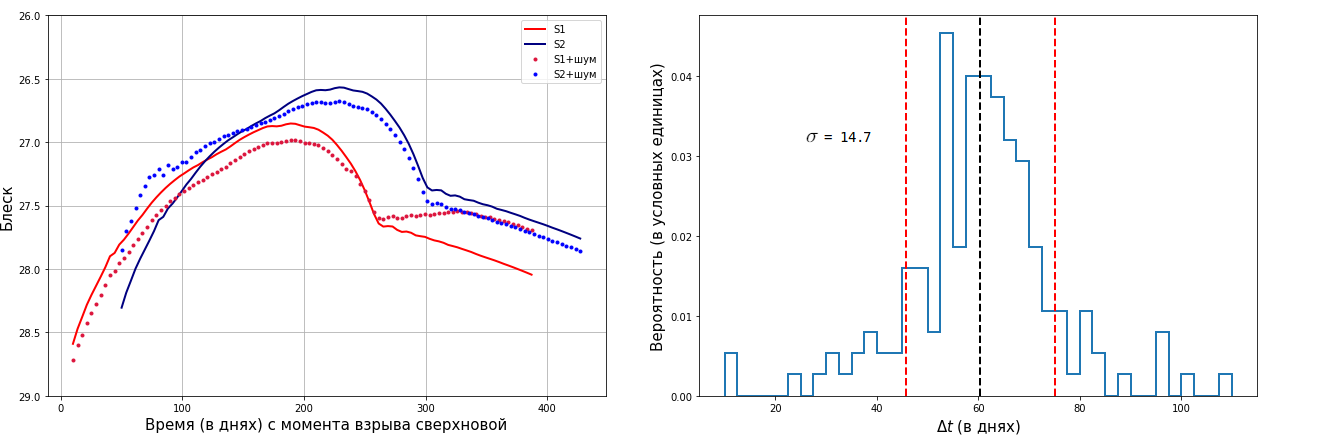
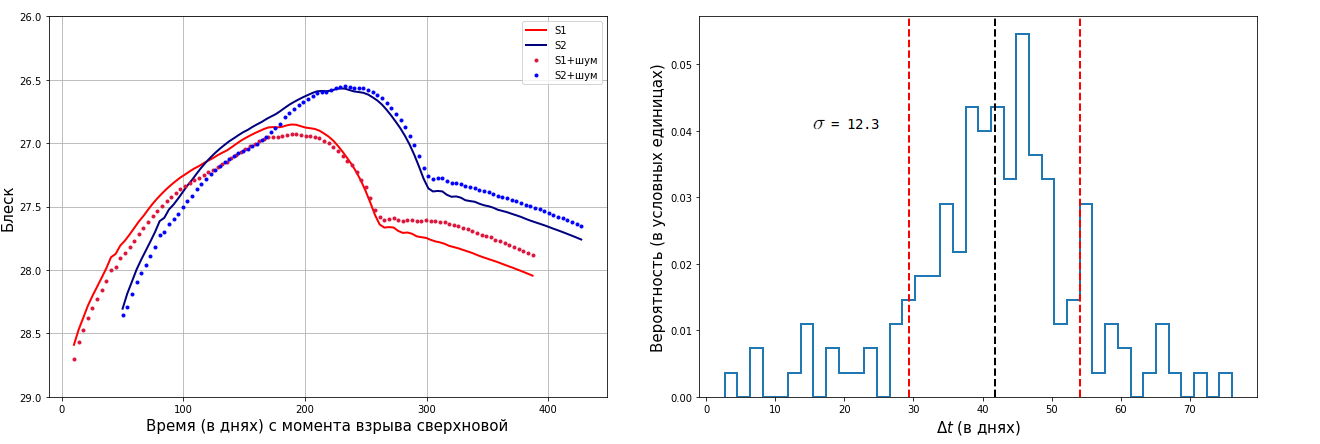
it's done!

diff --git a/intro/theoretical_background.tex b/intro/theoretical_background.tex
@@ -2,7 +2,7 @@
 
 \subsection{Измерение расстояний}
 
-Различные определения расстояния, используемые в космологии, приведены, например, в \cite{distance_measures}. Здесь и далее для описания расстояний между объектами в системе источник -- линза -- наблюдатель используется понятие \textbf{расстояния углового диаметра} (angular diameter distance). Оно определяется по следующей формуле (см, напр., уравн. №№14,15 в \cite{distance_measures}):
+Различные определения расстояния, используемые в космологии, приведены, например, в \cite{distance_measures}. Здесь и далее для описания расстояний между объектами в системе источник -- линза -- наблюдатель используется понятие \textit{расстояния углового диаметра} (angular diameter distance). Оно определяется следующим образом (см., напр., уравн. №14,15 в \cite{distance_measures}):
 
 \begin{equation}\label{ang_dia_dist}
 D_{A}\left(z_{1}, z_{2}\right)=\frac{c}{1+z_{2}} \int_{z_{1}}^{z_{2}} \frac{d z}{H_{0} \sqrt{\Omega_{m}\left(1+z^{3}\right)+\Omega_{\Lambda}}},
@@ -11,12 +11,12 @@ D_{A}\left(z_{1}, z_{2}\right)=\frac{c}{1+z_{2}} \int_{z_{1}}^{z_{2}} \frac{d z}
 
 \subsection{Гравитационно-линзированная система}
 
-При помощи общей теории относительности нетрудно показать (см., напр., \cite{gl_all}), что в гравитационном поле массивного тела \textit{(линзы)} с ньютоновским потенциалом $\Phi$ угол отклонения светового луча, испущенного \textit{источником} и пришедшего к \textit{наблюдателю}, равен
+В рамках общей теории относительности можно показать (см., напр., \cite{gl_all}), что в гравитационном поле массивного тела \textit{(линзы)} с ньютоновским потенциалом $\Phi$ угол отклонения светового луча, испущенного \textit{источником} и пришедшего к \textit{наблюдателю}, равен
 
 \begin{equation}
 \hat{\alpha}=\frac{2}{c^{2}} \int_{-\infty}^{+\infty} \vec{\nabla}_{\perp} \Phi \ \mathrm{d} z,
 \end{equation}
-где $z$ - координата вдоль невозмущённой траектории распространения света. При этом предполагается, что $\Phi/c^2 \ll 1$, что выполняется практически всегда: например, для скопления галактик  $|\Phi|/c^2 \sim 10^{-4} \ll 1$. Это же условие обеспечивает малость углов: при сильном линзировании углы отклонения света порядка угловых секунд. Из того, что $\Phi$ не зависит от массы тела, попавшего в гравитационное поле, следует, что все фотоны отклоняются на один и тот же угол. В этом смысле сильное гравитационное линзирование \textit{ахроматично}, то есть не зависит от длины волны. 
+где $z$ - координата вдоль невозмущённой траектории распространения света. При этом предполагается, что $\Phi/c^2 \ll 1$, что выполняется практически всегда: например, для самых массивно гравитационно связанных объектов во Вселенной -- скоплений галактик --  $|\Phi|/c^2 \sim 10^{-4} \ll 1$. Это же условие обеспечивает малость углов: при сильном линзировании углы отклонения света порядка угловых секунд. Из того, что $\Phi$ не зависит от массы тела, попавшего в гравитационное поле, следует, что все фотоны отклоняются на один и тот же угол. В этом смысле сильное гравитационное линзирование \textit{ахроматично}, то есть не зависит от длины волны. 
 %Для точечной линзы $\Phi=-\frac{G M}{r}$, где $M$ - её масса, а значит, что углы отклонения массивом таких линз могут быть сложены по принципу суперпозиции. 
 
 В реалистичных моделях линз, в которых масса, вызывающая линзирование, распределена трёхмерным образом, используется \textit{приближение плоских линз}. Это всегда оправдано: характерные размеры самого большого объекта, который может быть линзой, - скопления галактик - порядка 1 МПк, в то время как типичное расстояние между объектами системы порядка 100-1000 МПк.
@@ -27,7 +27,6 @@ D_{A}\left(z_{1}, z_{2}\right)=\frac{c}{1+z_{2}} \int_{z_{1}}^{z_{2}} \frac{d z}
 	\includegraphics[scale=1.0]{pics/gravlenssyst.png}
 	\caption{Типичная гравитационно-линзированная система (\cite{gravlensbook}). Здесь $\beta$ и $\theta$ - углы между оптической осью (пунктирная линия) и источником и его изображением соответственно, $\hat{\alpha}$ - угол отклонения светового луча, $\eta$ и $\xi$ - расстояния от оптической оси до источника и его изображения соответственно,  $D_d$ - расстояние между наблюдателем и плоскостью линзы, $D_{ds}$ - между плоскостями линзы и источника, $D_s$ - между наблюдателем и источником.\label{fig:gravlensfig} }
    \end{figure} 
-
 Пусть масса линзы распределена в пространстве по закону $\rho(\overline \xi, z)$, где $\overline \xi$ - двумерный вектор в плоскости линзы, $z$ - координата вдоль оптической оси. \textit{Поверхностная плотность} линзы задаётся следующим соотношением:
 
 \begin{equation}\label{sigmasurf}
@@ -64,12 +63,12 @@ D_{A}\left(z_{1}, z_{2}\right)=\frac{c}{1+z_{2}} \int_{z_{1}}^{z_{2}} \frac{d z}
 \mu=\frac{1}{\operatorname{det} \mathcal{A}}
 \end{equation}
 
-Возможно существование некоторого множества точек, для которых выполняется соотношение $\operatorname{det} \mathcal{A}=0$, в которых усиление бесконечно (в действительности это формальность, т.к. при работе с реальными источниками необходимо учитывать их неточечность).  Кривая, образуемая этими точками, называется каустикой, а её образ в плоскости линзы – критической кривой. На Рисунке 2 видно, как ведёт себя изображение неточечного источника при пересечении им складки (fold) или излома (cusp) каустики.
+Возможно существование некоторого множества точек, для которых выполняется соотношение $\operatorname{det} \mathcal{A}=0$, в которых усиление формально бесконечно. Кривая, образуемая этими точками, называется каустикой, а её образ в плоскости линзы – критической кривой. На Рисунке \ref{fig:caustics} видно, как ведёт себя изображение компактного источника при пересечении им складки \textit{(fold)} или излома \textit{(cusp)} каустики.
  
 \begin{figure}[H]
     \centering
 	\includegraphics[scale=0.8]{pics/caust_intro.png}
-	\caption{Поведение изображения источника при пересечении им излома (левая панель) или складки (правая панель) каустики  (\cite{narbart}). Также для иллюстрации изменения масштабов изображения нарисованы критические кривые в плоскости линзы}
+	\caption{Поведение изображения компактного источника при пересечении им излома (левая панель) или складки (правая панель) каустики  (\cite{narbart}). Также для иллюстрации изменения масштабов изображения нарисованы критические кривые в плоскости линзы. \label{fig:caustics}}
 \end{figure}
 
 \subsection{Появление нескольких изображений}
@@ -81,7 +80,7 @@ D_{A}\left(z_{1}, z_{2}\right)=\frac{c}{1+z_{2}} \int_{z_{1}}^{z_{2}} \frac{d z}
 \end{equation}
 Здесь первое слагаемое означает геометрическую задержку (удлиняется траектория распространения света), второе - гравитационную (в соответствии с ОТО время около гравитирующих тел идет “медленнее”); $\boldsymbol{\theta}$ и $\boldsymbol{\beta}$ -- положения (в угловых единицах) соответственно изображения и источника (см. Рис.\ref{fig:gravlensfig}), $\Psi(\boldsymbol{\theta})$ - линзирующий гравитационный потенциал. В соответствии с принципом Ферма изображения формируются там, где $\nabla \tau (\boldsymbol{\theta}) = 0$. Следовательно, возможно появление нескольких изображений  одного и того же источника (то есть возможно несколько значений $\boldsymbol{\theta}$ для одного положения источника; более подробное описание этого присутствует в \cite{gravlensbook}, \cite{gl_all}).
 
-Так как оба слагаемых в формуле \eqref{tau} пропорциональны $H_0^{-1}$, то, измеряя временную задержку между изображениями одного и того же источника, можно получить значение постоянной Хаббла $H_0$. Идея использования именно линзированные сверхновые для оценки постоянной Хаббла была впервые предложена Сьюром Рефсдалом в 1964 году (\cite{refsdal1964}).
+Так как оба слагаемых в формуле \eqref{tau} пропорциональны $H_0^{-1}$, то, измеряя временную задержку между изображениями одного и того же источника, можно получить значение постоянной Хаббла. Идея использования именно линзированных сверхновых для оценки $H_0$ была впервые предложена Сьюром Рефсдалом в 1964 году (\cite{refsdal1964}).
 
 \section{Подходящие источники: квазары и сверхновые}
 

diff --git a/impact/results.tex b/impact/results.tex
@@ -1,42 +1,41 @@
-Специфика эксперимента такова, что при заданном сдвиге по звёздной величине (или, что тоже самое, при заданном отношении усилений изображений) неопределённость во временной задержке, вызванная микролинзированием, не зависит от $\Delta t_{\textrm{ист.}}$. В действительности, в реально наблюдаемых изображениях гравитационно линзированных объектов нельзя точно указать отношение усилений, что нельзя не учитывать при более точных исследованиях. Для иллюстрации выбраны следующие значения: $$\Delta t_{\textrm{ист.}}=40, \ \Delta m = -0.28.$$
-Для контроля точности временных интервалов между точками вводится сетка с $n=100$ делениями, так что частота отсчёта (расстояние вдоль горизонтальной оси между точками) составляет $\frac{400}{n}=4$ дня. (ТУТ). Модельная кривая блеска линейно интерполируется по этим точкам.
-Сперва рассмотрим идеализированный случай, в котором кривая блеска в обоих изображениях "снимается", начиная с момента расширения сверхновой (Рис. \ref{fig:proba}a). В таком случае дисперсия очень маленькая: $\sigma_{\Delta t}=0.24$ дня. Это значение можно трактовать как нижнюю границу точности измерения временных задержек. Столь высокая точность объясняется следующими факторами: 
+При заданном сдвиге по звёздной величине (или, что тоже самое, при заданном отношении усилений изображений) неопределённость во временной задержке, вызванная микролинзированием, не зависит от $\Delta t_{\textrm{ист.}}$. Отметим, что нормировочная постоянная $k$ в \eqref{chi2} по своему смыслу и есть заданная разница в блеске изображений.
+%В действительности, в реально наблюдаемых изображениях гравитационно линзированных объектов нельзя точно указать отношение усилений, что нельзя не учитывать при более точных исследованиях. 
+Для иллюстрации выбраны следующие значения временной задержки и разницы в звёздной величине: $$\Delta t_{\textrm{ист.}}=40, \ \Delta m = -0.28.$$
+Для временных интервалов вводится равномерная сетка: частота отсчёта \textit{(cadence)} составляет $4$ дня. Модельная кривая блеска линейно интерполируется по этим точкам.
+Сперва рассмотрим идеализированный случай, в котором наблюдение кривой блеска в обоих изображениях начинается с момента расширения сверхновой (Рис. \ref{fig:proba}a). В таком случае дисперсия очень маленькая: $\sigma_{\Delta t}=0.24$ дня. Это значение можно трактовать как нижнюю границу точности измерения временных задержек. Столь высокая точность объясняется следующими факторами: 
 
 \begin{itemize}
-    \item Высокая точность отсчёта,
-    \item Постоянство погрешности измерения в формуле \eqref{chi2},
-    \item Наличие характерной почти вертикальной части графика, обусловленной быстрым увеличением яркости сверхновой в первые дни после её взрыва.
+    \item наличие характерной почти вертикальной части кривой блеска, обусловленной быстрым увеличением яркости сверхновой в первые дни после её взрыва,
+    \item достаточно высокая частота отсчёта,
+    \item погрешность измерения в формуле \eqref{chi2} относительно маленькая и постоянная.
 \end{itemize}
+Пусть теперь вертикальная часть охватывает меньший диапазон изменения блеска. В этом случае дисперсия резко возрастает и по порядку величины составляет несколько дней. ($\sigma_{\Delta t}=5.1$ дней, Рис. \ref{fig:proba}б). Если же ещё сильнее сдвинуть момент начала снятия кривой блеска, то дисперсия достигнет весьма больших значений ($\sigma_{\Delta t}=12.3$ дней, Рис. \ref{fig:proba}в). 
 
-Пусть теперь вертикальная часть охватывает меньший диапазон изменения блеска. В этом случае дисперсия резко возрастает и по порядку величины составляет несколько дней. ($\sigma_{\Delta t}=5.1$ дней, Рис. \ref{fig:proba}б). Если же ещё сильнее сдвинуть момент начала снятия кривой блеска, то дисперсия достигнет весьма больших значений ($\sigma_{\Delta t}=14.7$ дней, Рис. \ref{fig:proba}в, $\Delta t_{\textrm{ист.}}=60$).
-
-Теперь смоделируем ситуацию, когда сверхновая детектируется после достижения пика своего блеска. Для реальных наблюдений сверхновых это наиболее реалистичная ситуация. В этом случае стандартное отклонение снова составляет несколько дней по порядку величины ($\sigma_{\Delta t}=2.7$ дней, Рис. \ref{fig:proba}г). 
-
-Несмотря на широкий разброс в значениях, данные согласуются с работой \cite{doblerkeeton2006} -- в ней также показано, что временная задержка для измерений, в которых сверхновая детектируется после пика своей кривой блеска, имеет меньшую дисперсию, чем временная задержка для кривой блеска с характерным пиком. (ПОЧЕМУ)
-
-(для первых трёх гистограмм) Такой рост в дисперсии $\Delta t$ объясняется тем, что флуктуации от микролинзирования наиболее сильно проявляются тогда, когда они совпадают по порядку величины с характерными изменениями истинной кривой блеска. 
 
 \begin{figure}[H]
     \centering
 	\begin{minipage}[h]{1.0\linewidth}
     \centering    
-    	\includegraphics[scale=0.40]{pics/fig1.png} \\ \centering (а)  \\ 
+    	\includegraphics[scale=0.43]{pics/fig1.png} \\ \centering (а)  \\ 
 	\end{minipage}
 	\vfill
 	\begin{minipage}[h]{1.0\linewidth}
 	\centering
-    	\includegraphics[scale=0.40]{pics/fig2.png} \\ \centering (б) \\
+    	\includegraphics[scale=0.43]{pics/fig2.png} \\ \centering (б) \\
 	\end{minipage}
 	\vfill
 	\begin{minipage}[h]{1.0\linewidth}
     \centering	
-    	\includegraphics[scale=0.40]{pics/fig3.png} \\ \centering (в) \\
+    	\includegraphics[scale=0.43]{pics/fig3.png} \\ \centering (в) \\
 	\end{minipage}
 	\vfill
 	\begin{minipage}[h]{1.0\linewidth}
     \centering	
-    	\includegraphics[scale=0.40]{pics/fig4.png} \\ \centering (г) \\
+    	\includegraphics[scale=0.43]{pics/fig4.png} \\ \centering (г) \\
 	\end{minipage}
 	
-	\caption{\textit{Слева}: кривые блеска в изображениях S1 и S2 SN Refsdal. Сплошной линией обозначены невозмущенные кривые блеска, точками -- одна из реализаций кривых блеска с шумами от микролинзирования. \textit{Справа}: гистограммы временных задержек для 150 измерений $\Delta t$. Чёрной пунктирной линией обозначено среднее по всем измерениям, красными пунктирными линиями - среднее плюс-минус одно стандартное отклонение. \label{fig:proba}} 
+	\caption{\textit{Слева}: кривые блеска в изображениях S1 и S2 SN Refsdal. Сплошной линией обозначены невозмущенные кривые блеска, точками -- одна из реализаций кривых блеска с шумами от микролинзирования, вносящими заметный вклад. \textit{Справа}: гистограммы временных задержек для 150 измерений $\Delta t$. Чёрной пунктирной линией обозначено среднее по всем измерениям, красными пунктирными линиями - среднее плюс-минус одно стандартное отклонение. \label{fig:proba}} 
 \end{figure}
+Теперь смоделируем ситуацию, когда сверхновая детектируется после достижения пика своего блеска. Для настоящих наблюдений сверхновых это наиболее реалистичная ситуация. В этом случае стандартное отклонение снова составляет несколько дней по порядку величины ($\sigma_{\Delta t}=2.7$ дней, Рис. \ref{fig:proba}г).
+
+Несмотря на широкий разброс в значениях, данные согласуются с работой \cite{doblerkeeton2006} -- в ней также показано,  что флуктуации от микролинзирования наиболее сильно проявляются тогда, когда они совпадают по порядку величины с характерными изменениями истинной кривой блеска. Полученные результаты, однако, расходятся с выводами работы \cite{pierelrodney2019}, в которых утверждается, что для наблюдений кривой блеска сверхновой после её пика дисперсия временной задержки будет больше, чем для наблюдений с характерным пиком. Это расхождение, вероятнее всего, объясняется заданным и постоянным значением $\Delta m$. Дальнейшие исследования в этой области предполагают уточнение описанной модели.

diff --git a/impact/timedelays.tex b/impact/timedelays.tex
@@ -1,19 +1,17 @@
-Для каждого изображения вклад микролинзирования уникален и не зависит от других изображений, что вносит некоторую неопределенность в определение временных задержек между изображениями. Для количественных оценок точности определения $\Delta t$ между двумя кривыми блеска с учетом микролинзирования используется подход, детально описанный в работе \cite{doblerkeeton2006} -- пионерской работе по этому направлению. За основу была взята одна из кривых блеска SN Refsdal, рассчитанных в гидродинамической модели в различных частотных фильтрах для 400 дней с момента её взрыва (Бакланов и др., в подготовке). Она изображена на Рисунке \ref{fig:lightcurves}. 
+Для каждого изображения вклад микролинзирования уникален и не зависит от других изображений, что вносит некоторую неопределенность в определение временных задержек между изображениями. Для количественных оценок точности определения $\Delta t$ между двумя кривыми блеска с учетом микролинзирования используется подход, детально описанный в работе \cite{doblerkeeton2006}. За основу была взята одна из кривых блеска SN Refsdal, рассчитанных в гидродинамической модели в различных частотных фильтрах для 400 дней с момента её взрыва (Бакланов и др., в подготовке). Она изображена на Рисунке \ref{fig:lightcurves}. 
 
 \begin{figure}[H]
     \centering
-	\includegraphics[scale=0.68]{pics/lightcurves.png}
+	\includegraphics[scale=0.60]{pics/lightcurves.png}
 	\caption{Кривые блеска SN Refsdal в различных фильтрах, полученные в гидродинамической модели (Бакланов и др., в подготовке). \label{fig:lightcurves}} 
 \end{figure}
 
-Для простоты анализа рассматривается кривая блеска только в одном фильтре - F160W. Для иллюстрации влияния микролинзирования используются карты для областей изображений S1 и S2 (см. Рис. \ref{fig:s1s4}). SN Refsdal моделируется кругом с постоянной поверхностной яркостью, случайно расположенным на карте, расширяющимся со скоростью 5000 км/с. Выбор такого значения скорости в некоторой степени произволен (для иллюстрации), но по порядку величины соответствует действительному, оцениваемому как $v \sim {R_{SN}^{max}}/{t_{\textrm{расширения}}} \sim {2 \cdot 10^{15} \textrm{см} }/{55 \textrm{ суток}}$.
-
-Предполагается, что оригинальная кривая блеска наблюдается в изображении S1. Для имитации изображения S2 имеющаяся кривая блеска дублируется и сдвигается по времени (далее эта разница обозначается как истинная временная задержка $\Delta t_{\textrm{ист.}}$) и звёздной величине относительно оригинальной. После этого к каждой из кривых блеска добавляются уникальные “шумы”, вызванные микролинзированием, полученные при помощи программного пакета {\tt{SNTD}} на соответствующих картах. Для “зашумленных” кривых блеска временная задержка между изображениями определяется путем минимизации следующего функционала (аналогично работе \cite{doblerkeeton2006}:
+Для простоты анализа рассматривается кривая блеска только в одном фильтре -- F160W. Для иллюстрации влияния микролинзирования используются карты для областей изображений S1 и S2 (см. Рис. \ref{fig:s1s4}). SN Refsdal моделируется кругом с постоянной поверхностной яркостью, случайно расположенным на карте, расширяющимся с постоянной скоростью 5000 км/с. Выбор такого значения скорости в некоторой степени произволен для лучшей иллюстрации. Предполагается, что выбранная выше кривая блеска наблюдается в изображении S1. Для имитации изображения S2 имеющаяся кривая блеска дублируется и сдвигается по времени (далее эта разница обозначается как истинная временная задержка $\Delta t_{\textrm{ист.}}$) и звёздной величине. После этого к каждой из кривых блеска добавляются “шумы”, вызванные микролинзированием, полученные при помощи программного пакета {\tt{SNTD}} на соответствующих изображению картах. Для “зашумленных” кривых блеска временная задержка между изображениями определяется путем минимизации следующего функционала (аналогично работе \cite{doblerkeeton2006}):
 
 \begin{equation}\label{chi2}
-\chi^{2}(\Delta t)=\frac{1}{N} \sum_{i=1}^{N} \frac{1}{\sigma_{i}^{2}}\left[D^{+}\left(t_{i}\right)-D^{-}\left(t_{i}-\Delta t\right)-k\right]^{2}
+\chi^{2}(\Delta t)=\frac{1}{N} \sum_{i=1}^{N} \frac{1}{\sigma_{i}^{2}}\left[D^{+}\left(t_{i}\right)-D^{-}\left(t_{i}-\Delta t\right)-k\right]^{2},
 \end{equation}
-где $D^+$ и $D^-$ - значения кривых блеска, выраженные в звёздных величинах, $\sigma_i$ - фотометрическая погрешность с нормальным распределением (она предполагается постоянной во времени), $k$ - нормировочная постоянная, связанная с различным макроусилением псевдо-изображений. Далее эта операция многократно повторяется, после чего по полученным значениям разброса временных задержек находится стандарное отклонение соответствующего распределения $\Delta t$ по формуле
+где $D^+$ и $D^-$ -- значения кривых блеска, выраженные в звёздных величинах, $\sigma_i = 0.05$ звёздных величин -- фотометрическая погрешность (она предполагается постоянной во времени), $k$ -- нормировочная постоянная, связанная с различным макроусилением "изображений". Далее эта процедура многократно повторяется, после чего по полученным значениям разброса временных задержек находится стандарное отклонение соответствующего распределения $\Delta t$ по формуле
 \begin{equation}\label{sigmadeltat}
 \sigma_{\Delta t}=\sqrt{\frac{1}{N} \sum_{i=1}^{N}\left((\Delta t)_{i}-\overline{\Delta t}\right)^{2}},
 \end{equation}

diff --git a/microlensing/impact_of_size.tex b/microlensing/impact_of_size.tex
@@ -1,17 +1,18 @@
 Как известно, микролинзирование при больших размерах источника вносит несущественный вклад в блеск источника (\cite{schneider1992}). Для того, чтобы оценить размер источника, начиная с которого вкладом микролинзирования можно пренебречь, мы оценили величину стандартного отклонения микро-усилений в звездных величинах $\delta m_{obs}$ как функцию размера источника. 
-Для этой цели было сгенерировано 10 различных карт микрокаустик, каждая со следующими параметрами: $\sigma_*=0.4, \sigma_c = 0$, размер - $ 150 \times 150 $ радиусов Эйнштейна, разрешение - $1000 \ times 1000$ пикселей. Источник моделировался кругом с постоянной поверхностной яркостью. Для различных значений радиусов источника производилась операция свёртки \textit{(convolution)} с каждой из построенных карт, в результате чего на выходе получалась новая карта с учётом неточечности источника. Далее, для каждого значения радиуса источника вычислялось стандартное отклонение  $\delta m_{o b s}$ по следующей формуле: 
+Для этой цели было сгенерировано 10 различных карт микрокаустик, каждая со следующими параметрами: $\kappa_*=0.4, \kappa_c = 0$, размер - $ 150 \times 150 $ радиусов Эйнштейна, разрешение - $1000 \times 1000$ пикселей. Источник моделировался кругом с постоянной поверхностной яркостью. Для различных значений радиусов источника производилась операция свёртки \textit{(convolution)} с каждой из построенных карт, в результате чего на выходе получалась новая карта с учётом неточечности источника. Далее, для каждого значения радиуса источника вычислялось стандартное отклонение  $\delta m_{o b s}$ по следующей формуле: 
 \begin{equation}
 \delta m_{o b s}=\sqrt{\frac{1}{N} \sum_{i=1}^{N}\left(x_{i}-\overline{x}\right)^{2}},
 \end{equation}
-где N - количество элементов в выборке, полученной объединением всех карт, $x_i$ - значения усилений, $\overline x$- среднее значение усиления по выборке. Полученная зависимость приведена на Рисунке \ref{fig:refstab}. Пунктирной линией показана теоретическая оценка стандартного отклонения микро-усилений для больших источников (угловой размер которых превышает 5 радиусов Эйнштейна) из работы (\cite{refsdalstabell1991}):
-\begin{equation}
-\delta m_{o b s} \approx \frac{2.17 \sqrt{|\sigma|}}{\theta s}
-\end{equation}
-где $\sigma$ - плотность звёзд, $\theta_s$ - размер источника в единицах радиуса Эйнштейна для характерной массы звезды (здесь -- для $1 M_{\odot} $). Формула предполагается справедливой при $\gamma=0, \sigma < 1$. 
+где N - количество элементов в выборке, полученной объединением всех карт, $x_i$ - значения усилений, $\overline x$- среднее значение усиления по выборке. Полученная зависимость приведена на Рисунке \ref{fig:refstab}. 
 
 \begin{figure}[H]
     \centering
 	\includegraphics[scale=0.69]{pics/size_np_std.png}
-	\caption{ Рис.5 Зависимость стандартного отклонения $\Delta m_{obs}$ от среднего значения усиления. Пунктирной линией показана теоретическая оценка $\delta m (\theta_s)$ для источников с $\theta_s > 5$ (\cite{refsdalstabell1991}). Плотность звёзд: $\sigma_*=0.4$. Плотность тёмной материи и внешний сдвиг: $\sigma_c=0$. \label{fig:refstab} } 
+	\caption{Зависимость стандартного отклонения $\Delta m_{obs}$ от среднего значения усиления. Пунктирной линией показана теоретическая оценка $\delta m (\theta_s)$ для источников с $\theta_s > 5$ (\cite{refsdalstabell1991}). Плотность звёзд: $\kappa_*=0.4$. Плотность тёмной материи и внешний сдвиг: $\kappa_c=\gamma=0$. \label{fig:refstab} } 
 \end{figure}
+Пунктирной линией показана теоретическая оценка стандартного отклонения микро-усилений для больших источников (угловой размер которых превышает 5 радиусов Эйнштейна) из работы (\cite{refsdalstabell1991}):
+\begin{equation}
+\delta m_{o b s} \approx \frac{2.17 \sqrt{|\kappa_*|}}{\theta s}
+\end{equation}
+где $\kappa_*$ - безразмерная поверхностная плотность звёзд, $\theta_s$ - размер источника в единицах радиуса Эйнштейна для характерной массы звезды (здесь -- для $1 M_{\odot} $). Формула предполагается справедливой при $\gamma=0, \kappa_* < 1$. 
 Видно, что при увеличении размера источника на порядок $\delta m_{obs}$ уменьшается примерно так же на порядок, из чего можно сделать вывод, что для больших источников микролинзирование несущественно.

diff --git a/impact/rough_estimates.tex b/impact/rough_estimates.tex
@@ -34,7 +34,6 @@
 
 
 Поскольку значение $\theta_{\text {Ein}}$ неизвестно, воспользуемся следующим значением дисперсии скоростей звёзд для галактики-линзы: $\sigma = 232.08$ (\cite{kawamataoguri}). Ожидается, что оно лежит достаточно близко к $\sigma_{prox}$. Подставляя указанное  значение $\sigma$ в формулы \eqref{sigsig} и \eqref{radeff}, получаем: $$\Sigma_e = 1.8 \cdot 10^9 \ M_{\odot}/pc^2,$$ $$r_e=4.93 \ kpc$$
-
 В работе \cite{kawamataoguri} приведены положения (в системе небесных координат) изображений S1-S4 (Таблица А4) и центра линзирующей галактики (раздел 3.4.4), они указаны в таблице \ref{tab:coord}.
 
 \begin{table}[h!]
@@ -52,15 +51,14 @@
     \end{tabular}
 \end{table}
 \\
-Поверхностная плотность звёзд $\Sigma_*$ в областях, соответствующим изображениям S1-S4, рассчитывается на основе формулы де Вокулёра (\cite{schechter2014}, формула (11)):
+Поверхностная плотность звёзд $\Sigma_*$ в областях, соответствующим изображениям S1-S4, рассчитывается на основе формулы де Вокулёра (\cite{vaucouleurs}), представленной в виде (\cite{schechter2014}, формула (11)):
 
 \begin{equation}\label{vaucouleurs}
 \Sigma_*\left(u_{i}, v_{i}\right)=\mathcal{F} \frac{\Sigma_{e}}{3.607} \exp \left[-\left(\frac{w_{i}}{r_{e}}\right)^{\frac{1}{4}}+1\right], 
 \end{equation}
+где $u_{i}, v_{i}$ - координаты $i$-ого изображения по отношению к центру линзирующей галактики, $\Sigma_e$ - средняя (эффективная) поверхностная плотность звёзд, заключённых внутри эффективного радиуса $r_e$, безразмерный множитель $\mathcal{F}=1.23$ подобран методом максимального правдоподобия по наблюдаемым световым потокам от квазаров. При этом, согласно формуле \eqref{sigmacrit} для плоскости, в которой находятся изображения SN Refsdal  $\Sigma_{crit} = 2371.9 \ M_{\odot}/pc^2 $. Располагая этим значением, можно также найти $\kappa_*$ и $\kappa_c$ для областей с изображениями S1-S4 ($\kappa_*=\Sigma_* /\Sigma_{crit}, \ \kappa_c = \kappa-\kappa_* $). Полученные результаты представлены в таблице \ref{tab:params}.
 
-где $u_{i}, v_{i}$ - координаты $i$-ого изображения по отношению к центру линзирующей галактики, $\Sigma_e$ - средняя (эффективная) поверхностная плотность звёзд, заключённых внутри эффективного радиуса $r_e$, безразмерный множитель $\mathcal{F}=1.23$ подобран методом максимального правдоподобия (для наблюдаемых световых потоков от квазаров -- как нормально написать?). При этом, согласно формуле \eqref{sigmacrit} для плоскости, в которой находятся изображения SN Refsdal  $\Sigma_{crit} = 2371.9 \ M_{\odot}/pc^2 $. Располагая этим значением, можно также найти $\kappa_*$ и $\kappa_c$ для областей с изображениями S1-S4 ($\kappa_*=\Sigma_* /\Sigma_{crit}, \ \kappa_c = \kappa-\kappa_* $). Полученные результаты представлены в таблице \ref{tab:params}.
-
-\begin{table}[h!]
+\begin{table}[H]
   \caption{Оценки параметров для изображений SN Refsdal}
    \label{tab:params}
   \centering
@@ -70,16 +68,14 @@
     $\Sigma_*, M_{\odot}/pc^2$ & 491.2 & 541.3 & 509.8 & 580.1\\ \hline
     $\kappa_*$ & 0.207 &  0.228 & 0.215 & 0.245 \\ \hline
     $\kappa_c$ & 0.521 & 0.496 & 0.455 & 0.499 \\ \hline
-    $\kappa_*/\kappa$ & 0.285 & 0.315 & 0.321 & 0.329 \\ \hline
+   % $\kappa_*/\kappa$ & 0.285 & 0.315 & 0.321 & 0.329 \\ \hline
     \end{tabular}
 \end{table}
 \\
-Также видно, что вклад звёзд в общую конвергенцию порядка 20-30\verb|%|. Тут обосновать для чего это.
-
 Реализации карт с соответствующими параметрами приведены на Рисунке \ref{fig:s1s4}.
 
 \begin{figure}[H]
     \centering
 	\includegraphics[scale=0.6]{pics/s1s4.png}
-	\caption{Реализации карт для областей изображений S1-S4 SN Refsdal, выполненные при помощи программы {\tt{microlens}}. Размер каждой карты -- $10 \times 10 R_{Ein} $, разрешение -- $1000 \times 1000 $ пикселей. Цветовая шкала в единицах звёздных величин показывает усиление (отрицательные значения) или ослабление (положительные значения) яркости источника вследствие только микролинзирования. \label{fig:s1s4}} 
+	\caption{Реализации карт для областей изображений S1-S4 SN Refsdal, выполненные при помощи программы {\tt{microlens}}. Размер каждой карты -- $10 \times 10 \ R_{Ein} $, разрешение -- $1000 \times 1000 $ пикселей. Цветовая шкала в единицах звёздных величин показывает усиление (отрицательные значения) или ослабление (положительные значения) яркости источника вследствие только микролинзирования. \label{fig:s1s4}} 
 \end{figure}

diff --git a/microlensing/micro_histo.tex b/microlensing/micro_histo.tex
@@ -1,9 +1,9 @@
-Чтобы наглядно показать вклад микролинзирования в изменение звёздной величины \textbf{точечного источника}, используется подход, аналогичный изложенному в работе \cite{shwamb2002}. Для изображённых на Рисунке \ref{fig:histograms} карт микролинзирования (слева) были построены гистограммы (справа), по сути, являющиеся плотностью вероятности микролинзирования и характеризующие усиление или ослабление видимой звёздной величины источника. Для всех трех проиллюстрированных случаев полная поверхностная плотность галактики-линзы остается постоянной, меняется лишь вклад звезд в полную массу системы.
+Чтобы наглядно показать вклад микролинзирования в изменение звёздной величины \textbf{точечного источника}, используется подход, аналогичный изложенному в работе \cite{shwamb2002}. Для изображённых на Рисунке \ref{fig:histograms} карт микролинзирования были построены гистограммы, по сути, являющиеся плотностью вероятности микролинзирования и характеризующие усиление или ослабление видимой звёздной величины источника. Для всех трех проиллюстрированных случаев полная поверхностная плотность галактики-линзы остается постоянной, меняется лишь вклад звезд в полную массу системы.
 
 \begin{figure}[H]
     \centering
 	\includegraphics[scale=0.75]{pics/histograms.png}
-	\caption{\texit{Слева}: карты микрокаустик, количество звёзд уменьшается сверху вниз. Размер каждой карты - $20 \times 20 R_{Ein}$. \textit{Справа}: соответствующие этим картам плотности вероятности микро-усилений (т.е. изменений звездной величины источника вследствие микролинзирования только). Сплошная голубая линия показывает $\Delta m=0$, т.е. когда звездная величина источника согласуется с теоретически ожидаемым значением макро-усиления (вследствие линзирования галактикой как целым), пунктирная красная линия - среднее по карте значение усиления. \label{fig:histograms}} 
+	\caption{\textit{Слева}: карты микрокаустик, количество звёзд уменьшается сверху вниз. Размер каждой карты - $20 \times 20 R_{Ein}$. \textit{Справа}: соответствующие этим картам плотности вероятности микро-усилений (т.е. изменений звездной величины источника вследствие микролинзирования только). Сплошная голубая линия показывает $\Delta m=0$, т.е. когда звездная величина источника согласуется с теоретически ожидаемым значением макро-усиления (вследствие линзирования галактикой как целым), пунктирная красная линия - среднее по карте значение усиления. \label{fig:histograms}} 
 \end{figure}
 
-Так как микролинзирование происходит на отдельных звёздах, при уменьшении их количества (при этом величина $\sigma_*+\sigma_с$, то есть полная поверхностная плотность, сохраняется постоянной) дисперсия плотности вероятности ожидаемо уменьшается. Ещё один вывод, который отсюда можно сделать: микролинзирование в среднем ослабляет изображение (по крайней мере, для того набора параметров, который используется для построенных карт). 
+Так как микролинзирование происходит на отдельных звёздах, при уменьшении их количества (при этом величина $\kappa_*+\kappa_c$, то есть полная поверхностная плотность, сохраняется постоянной) дисперсия плотности вероятности ожидаемо уменьшается. Так же из гистограмм следует, что микролинзирование в среднем ослабляет изображение (по крайней мере, для того набора параметров, который используется для построенных карт). 

diff --git a/impact/impact_on_lightcurves.tex b/impact/impact_on_lightcurves.tex
@@ -1,4 +1,4 @@
-Для иллюстрации влияния микролинзирования на кривые блеска SN Refsdal использовался программный пакет {\tt{SNTD}} (\cite{pierelrodney2019}). Для области, в которой находится изображение S1 (см. Рис. \ref{fig:snrefsdalfig}) была построена карта микрокаустик со параметрами, найденными в предыдущем разделе. Сверхновая моделировалась кругом с постоянной поверхностной яркостью, который расширяется со скоростью v=15000 км/с в течение 200 дней (значения скорости расширения и периода наблюдения выбраны несколько произвольно с целью проиллюстрировать эффект). В зависимости от положения источника на карте микрокаустик можно наблюдать различные “шумы” от микролинзирования (см. Рис. \ref{fig:sntd_example}).
+Для иллюстрации влияния микролинзирования на кривые блеска SN Refsdal использовался программный пакет {\tt{SNTD}} (\cite{pierelrodney2019}). Для области, в которой находится изображение S1 (см. Рис. \ref{fig:snrefsdalfig}) была построена карта микрокаустик с параметрами, найденными в предыдущем разделе (см. Табл. \ref{tab:params}). Сверхновая моделировалась кругом с постоянной поверхностной яркостью, который расширяется со скоростью v=15000 км/с в течение 200 дней (значения скорости расширения и периода наблюдения выбраны  произвольно с целью проиллюстрировать эффект). В зависимости от положения источника на карте микрокаустик можно наблюдать различные “шумы” от микролинзирования (см. Рис. \ref{fig:sntd_example}).
 
 \begin{figure}[H]
     \centering
@@ -6,4 +6,4 @@
 	\caption{\textit{Сверху}: карта микрокаустик для изображения S1 сверхновой Refsdal, цветовая шкала представлена в единицах звёздных величин. Жёлтый цвет соответствует усилению, фиолетовый - ослаблению. \textit{Снизу}: вклад $\Delta m$ (в единицах звёздных величин), обусловленный микролинзированием, в зависимости от времени с момента начала расширения сверхновой, для двух различных положений источников. \label{fig:sntd_example}} 
 \end{figure}
 
-Для положения 1 источника, который находится в области с равномерным усилением и не пересекает каустики, вклад от микролинзирования слабый и примерно постоянный во времени. Напротив, в положении 2 источник при расширении захватывает области сильного усиления, что может заметно повлиять на форму истинной кривой блеска источника (флуктуации ~0.3 звездных величин). 
+Для положения 1 источника, который находится в области с равномерным усилением и не пересекает каустики, вклад от микролинзирования слабый и примерно постоянный во времени. Напротив, в положении 2 источник при расширении захватывает области сильного усиления, что может заметно повлиять на форму истинной кривой блеска источника (флуктуации $\sim 0.3$ звездных величин). 

diff --git a/intro/relevance.tex b/intro/relevance.tex
@@ -1,1 +1,1 @@
-В настоящее время значения основных космологических параметров известны с очень высокой точностью. Однако недавно было обнаружено расхождение на уровне значимости примерно 3$\sigma$ величины постоянной Хаббла, определяющей темп расширения Вселенной в современную эпоху. Для понимания причин этого расхождения необходимо привлечение независимых подходов, способных также с высокой точностью определять фундаментальные космологические параметры. Одной из таких возможностей является использование наблюдений гравитационно линзированных систем, в частности, гравитационно линзированных сверхновых. Точность оценки постоянной Хаббла из наблюдений таких систем напрямую зависит от точности определения временных запаздываний между изображениями источника. Существующие в настоящее время методы анализа кривых блеска линзированных сверхновых не учитывают влияние эффекта гравитационного линзирования на отдельных звездах (микролинзирование), попавших в “конус” зрения, хотя звезды в галактике образуют богатую сеть каустик, что приводит к тому, что наблюдаемые кривые блеска при расширении сверхновых испытывают зависящие от времени усиления/ослабления, уникальные для каждого изображения.
+В настоящее время значения основных космологических параметров известны с очень высокой точностью. Однако недавно было обнаружено расхождение на уровне значимости примерно 3$\sigma$ величины постоянной Хаббла, определяющей темп расширения Вселенной в современную эпоху. Для понимания причин этого расхождения необходимо привлечение независимых подходов, способных также с высокой точностью определять фундаментальные космологические параметры. Одной из таких возможностей является использование наблюдений гравитационно линзированных систем, в частности, гравитационно линзированных сверхновых. Точность оценки постоянной Хаббла из наблюдений таких систем напрямую зависит от точности определения временных запаздываний между изображениями источника. Существующие в настоящее время методы анализа кривых блеска линзированных сверхновых не учитывают влияние эффекта гравитационного линзирования на отдельных звездах (микролинзирование), попавших в “конус” зрения, хотя звезды в галактике образуют богатую сеть каустик, что приводит к тому, что наблюдаемые кривые блеска при расширении сверхновых испытывают зависящие от времени усиления или ослабления, уникальные для каждого изображения.

diff --git a/output/conclusion.tex b/output/conclusion.tex
@@ -4,8 +4,8 @@
 
 Для оценки размера источника, начиная с которого вкладом микролинзирования можно пренебречь, была численно получена зависимость стандартного отклонения микро-усилений от размера источника. При этом источник моделировался кругом с постоянной поверхностной яркостью. Полученная зависимость хорошо согласуется с теоретическим предсказанием из работы \cite{refsdalstabell1991}. 
 
-Было показано, что для SN Refsdal микролинзирование учитывать необходимо, т.к. типичный угловой размер фотосферы сверхновой $\theta_{SN} \sim 3 \cdot 10^{-7}$ угловых секунд не превышает радиус Эйнштейна для звезд-микролинз массой, равной $1 M_{\odot}$: $\theta_E \sim 2 \cdot 10^{-6}$ угловых секунд.
+Было показано, что для SN Refsdal микролинзирование учитывать необходимо, т.к. типичный угловой размер фотосферы сверхновой $\theta_{SN} \sim 3 \cdot 10^{-7}$ угловых секунд не превышает радиус Эйнштейна для звезд-микролинз массой $1 M_{\odot}$: $\theta_E \sim 2 \cdot 10^{-6}$ угловых секунд.
 
-Была проанализирована зависимость дисперсии временной задержки от момента начала наблюдения её кривой блеска. Показано, что в результате влияния микролинзирования точность измерения временных задержек между изображениями гравитационно линзированной сверхновой ограничивается величиной порядка нескольких дней, что хорошо согласуется с результатами работы \cite{doblerkeeton2006} -- пионерской работы в этом направлении.
+Была проанализирована зависимость дисперсии временной задержки от момента начала наблюдения кривой блеска. Показано, что в результате влияния микролинзирования точность измерения временных задержек между изображениями гравитационно линзированной сверхновой ограничивается величиной порядка нескольких дней, что хорошо согласуется с результатами работы \cite{doblerkeeton2006}.
 
-Результаты этой работы предполагается использовать для дальнейшего количественного и качественного обоснования необходимости учёта микролинзирования как одного из возможных источников ошибок при определении постоянной Хаббла в исследованиях гравитационно линзированных сверхновых.
+Результаты этой работы предполагается использовать для дальнейшего количественного и качественного учёта микролинзирования как одного из возможных источников ошибок при определении постоянной Хаббла в исследованиях, связанных с гравитационно линзированными сверхновыми.

diff --git a/intro/aims.tex b/intro/aims.tex
@@ -1,1 +1,1 @@
-Данная работа посвящена изучению влияния микролинзирования на кривые блеска линзированных сверхновых на примере SN Refsdal — первой обнаруженной гравитационно линзированной сверхновой со множественными изображениями. Для различных параметров, характеризующих галактику-линзу, получена большая выборка карт усилений, возникающих вследствие только эффекта микролинзирования, и проведено их статистическое исследование. Построены распределения вероятности усиления в звездных величинах, изучено влияние микролинзирования на кривые блеска сверхновой в рамках модели расширяющегося диска с постоянной поверхностной яркостью. Получены оценки дисперсии временной задержке между изображениями сверхновой в зависимости от момента начала наблюдения её кривой блеска.
+Данная работа посвящена изучению влияния микролинзирования на кривые блеска гравитационно линзированных сверхновых на примере SN Refsdal — первой обнаруженной гравитационно линзированной сверхновой со множественными изображениями. Для различных параметров, характеризующих галактику-линзу, получена большая выборка карт усилений, возникающих вследствие только эффекта микролинзирования, и проведено их статистическое исследование. Построены распределения вероятности усиления в звездных величинах, изучено влияние микролинзирования на кривые блеска сверхновой в рамках модели расширяющегося диска с постоянной поверхностной яркостью. Получены оценки дисперсии временной задержки между изображениями сверхновой в зависимости от момента начала наблюдения её кривой блеска.

diff --git a/microlensing/microlens.tex b/microlensing/microlens.tex
@@ -1,4 +1,4 @@
-В данной работе для изучения микролинзирования используется вычислительная программа {\tt{microlens}} (\cite{wambsganss1999}), которая моделирует методом обратной трассировки лучей (\textit{inverse ray tracing}) распределение каустик в плоскости источника, основываясь на распределении звёзд в плоскости линзы. Выходными данными этой программы являются карты микрокаустик, содержащие значения обусловленного микролинзированием усиления. Основными параметрами для каждой карты являются поверхностные плотности звёзд $\sigma_*$\footnote{В этой главе поверхностная плотность, определяемая выражением \eqref{convergence}, обозначается символом $\sigma.$} и непрерывно распределенной тёмной материи $\sigma_c$ в линизирующей галактике, внешний сдвиг $\gamma$, учитывающий вклад гравитационного потенциала скопления галактик, а также функция масс звёзд. 
+В данной работе для изучения микролинзирования используется вычислительная программа {\tt{microlens}} (\cite{wambsganss1999}), которая моделирует методом обратной трассировки лучей (\textit{inverse ray tracing}) распределение каустик в плоскости источника, основываясь на распределении звёзд в плоскости линзы. Выходными данными этой программы являются карты микрокаустик, содержащие значения обусловленного микролинзированием усиления. Основными параметрами для каждой карты являются поверхностные плотности звёзд $\kappa_*$ и непрерывно распределенной тёмной материи $\kappa_c$ в линизирующей галактике, внешний сдвиг $\gamma$, учитывающий вклад гравитационного потенциала скопления галактик, а также функция масс звёзд. 
 
 \begin{figure}[H]
     \centering

diff --git a/microlensing/micro_for_refsdal.tex b/microlensing/micro_for_refsdal.tex
@@ -1,4 +1,4 @@
-Как обсуждалось выше, микролинзирование может вносить существенный вклад в наблюдаемую кривую блеска, если размер источника не превышает радиус Эйнштейна $theta_E$ для звезды-микролинзы. Для конфигурации SN Refsdal (см. Рис. \ref{fig:snrefsdalfig}) оценим $\theta_E$ для звезды с массой $1 M_{\odot}$. Расстояния до галактики-линзы (члена скопления MACSJ1149.6+2223, $z_L=0.54$), до источника ($z_S=1.49$), а также между линзой и источником равны, согласно формуле \eqref{ang_dia_dist}, 
+Как обсуждалось выше, микролинзирование может вносить существенный вклад в наблюдаемую кривую блеска, если размер источника не превышает радиус Эйнштейна $\theta_E$ для звезды-микролинзы. Для конфигурации SN Refsdal (см. Рис. \ref{fig:snrefsdalfig}) оценим $\theta_E$ для звезды с массой $1 M_{\odot}$. Расстояния до галактики-линзы (члена скопления MACSJ1149.6+2223, $z_L=0.54$), до источника ($z_S=1.49$), а также между линзой и источником равны, согласно формуле \eqref{ang_dia_dist}, 
 $$ D_d=D_A(0,z_L)=1311.54 \ \textrm{МПк}, $$
 $$ D_s=D_A(0,z_S)=1744.81 \ \textrm{МПк}, $$
 $$ D_{ds}=D_A(z_L,z_S)=932.47 \ \textrm{МПк}, $$
